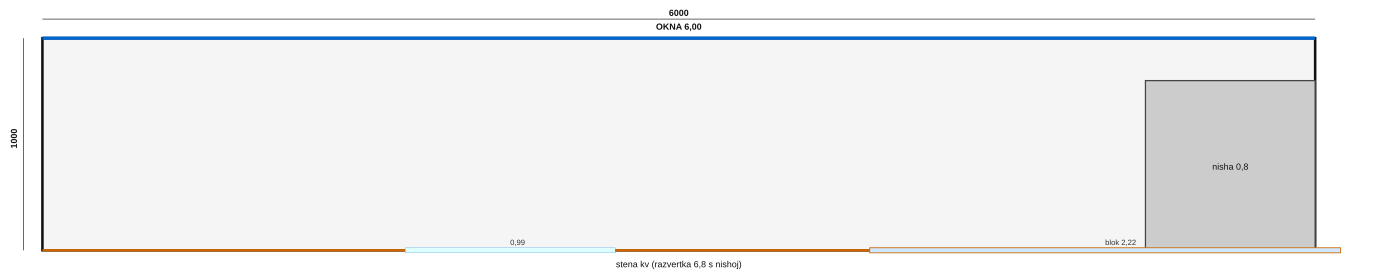
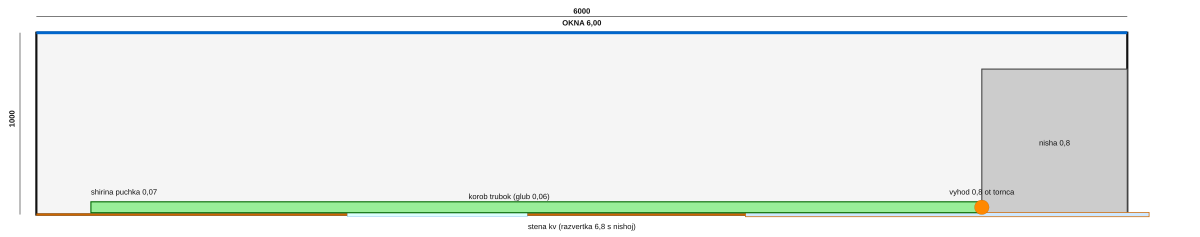
Add AC trunk box schematic: 0.6m height, 0.07x0.06, exit 0.8m from end

diff --git a/balcony-loggia/preview.html b/balcony-loggia/preview.html
@@ -23,5 +23,8 @@ V kvartiru: podok. 0,75 (blok)</pre>
   <img src="plan-top.png" alt="План">
   <h2>Окна наружу</h2>
   <img src="elevation-front-windows.png" alt="Окна">
+  <h2>Короб кондиционера</h2>
+  <img src="elevation-ac-trunk-front.png" alt="Трасса на фасаде">
+  <img src="section-ac-trunk.png" alt="Сечение короба">
 </body>
 </html>

diff --git a/balcony-loggia/RAZMERY.md b/balcony-loggia/RAZMERY.md
@@ -56,6 +56,19 @@
 
 ---
 
+## Кондиционер — короб под обшивку
+
+| Параметр | Значение |
+|----------|----------|
+| Высота от **пола** (низ короба / трасса) | **0,60** |
+| Сечение пучка (высота короба) | **0,07** |
+| **Вынос** от плоскости стены в лоджию | **0,06** |
+| **Выход на улицу** | **0,80** от **торцевой** стены (на фасаде 6 м) |
+
+Чертежи: `plan-top` (план), `elevation-ac-trunk-front`, `section-ac-trunk`.
+
+---
+
 ## Заметка в телефон
 
 ```
